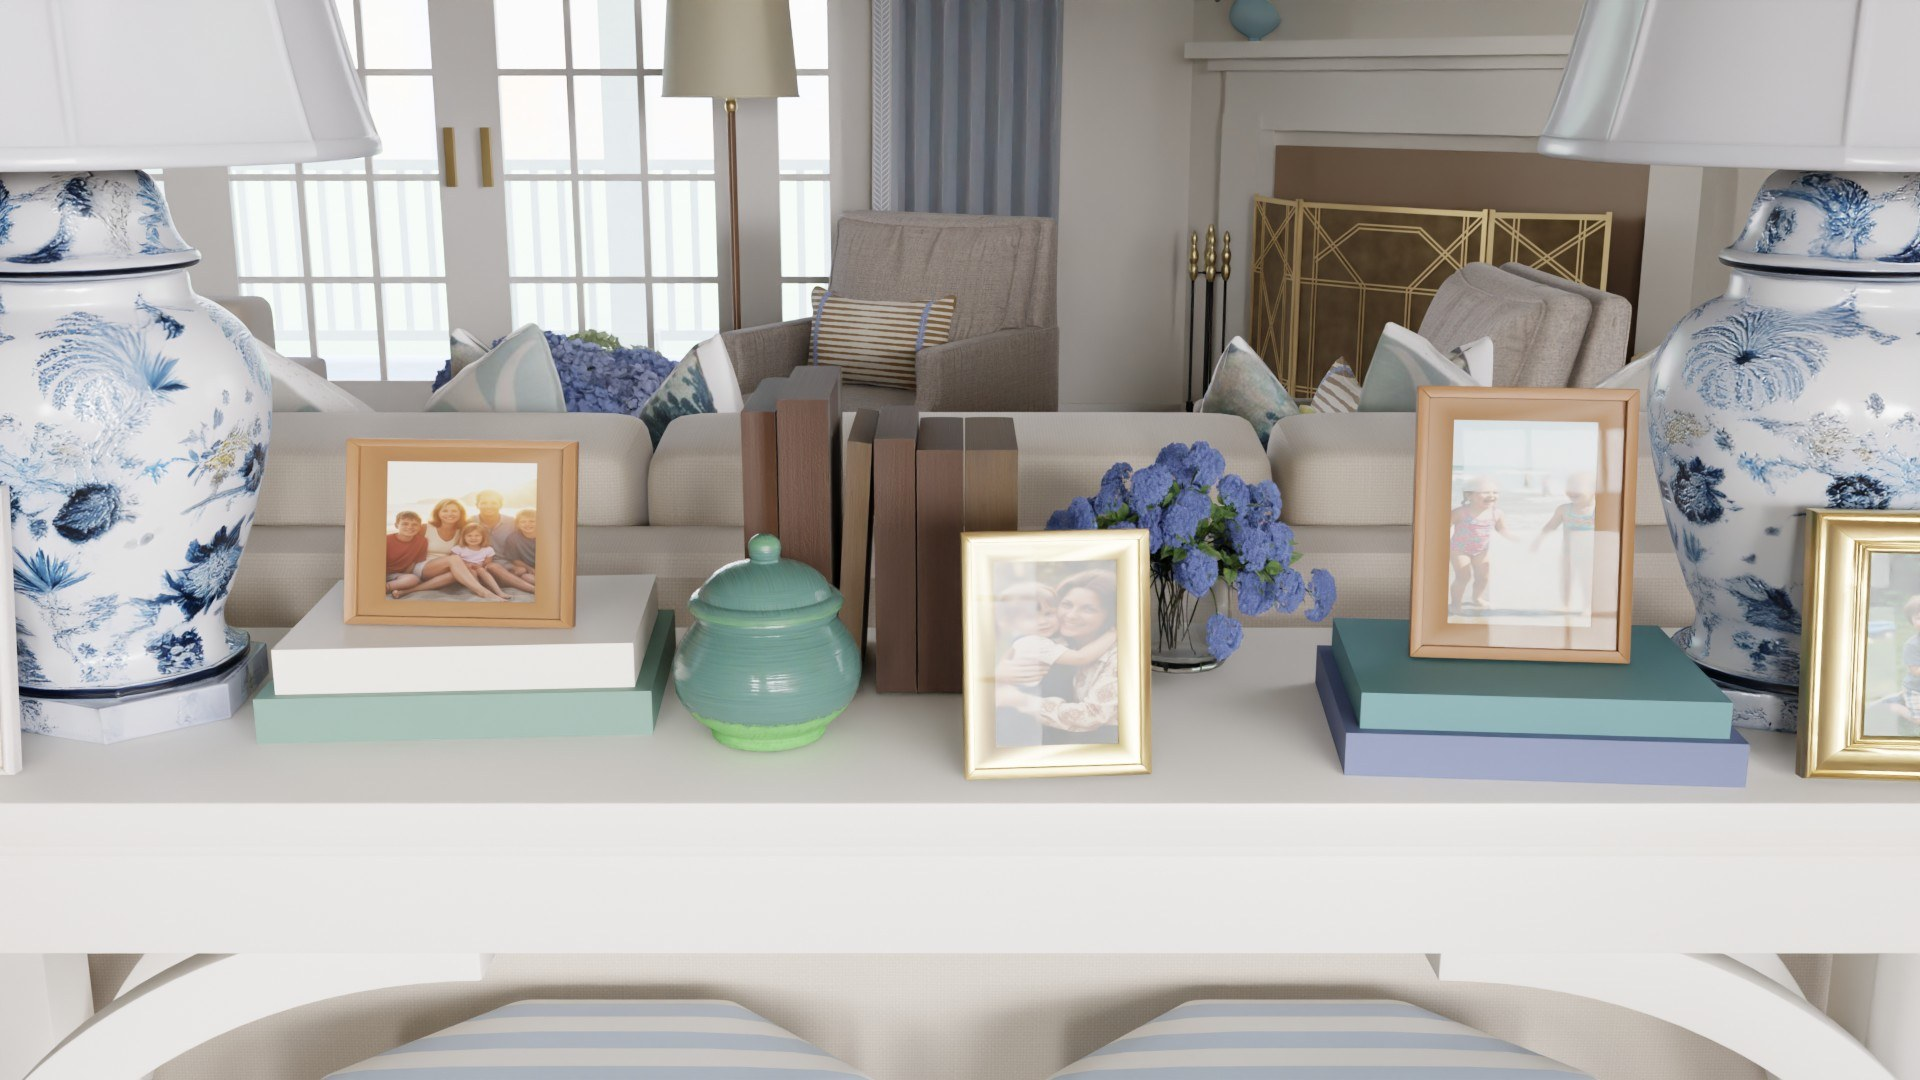
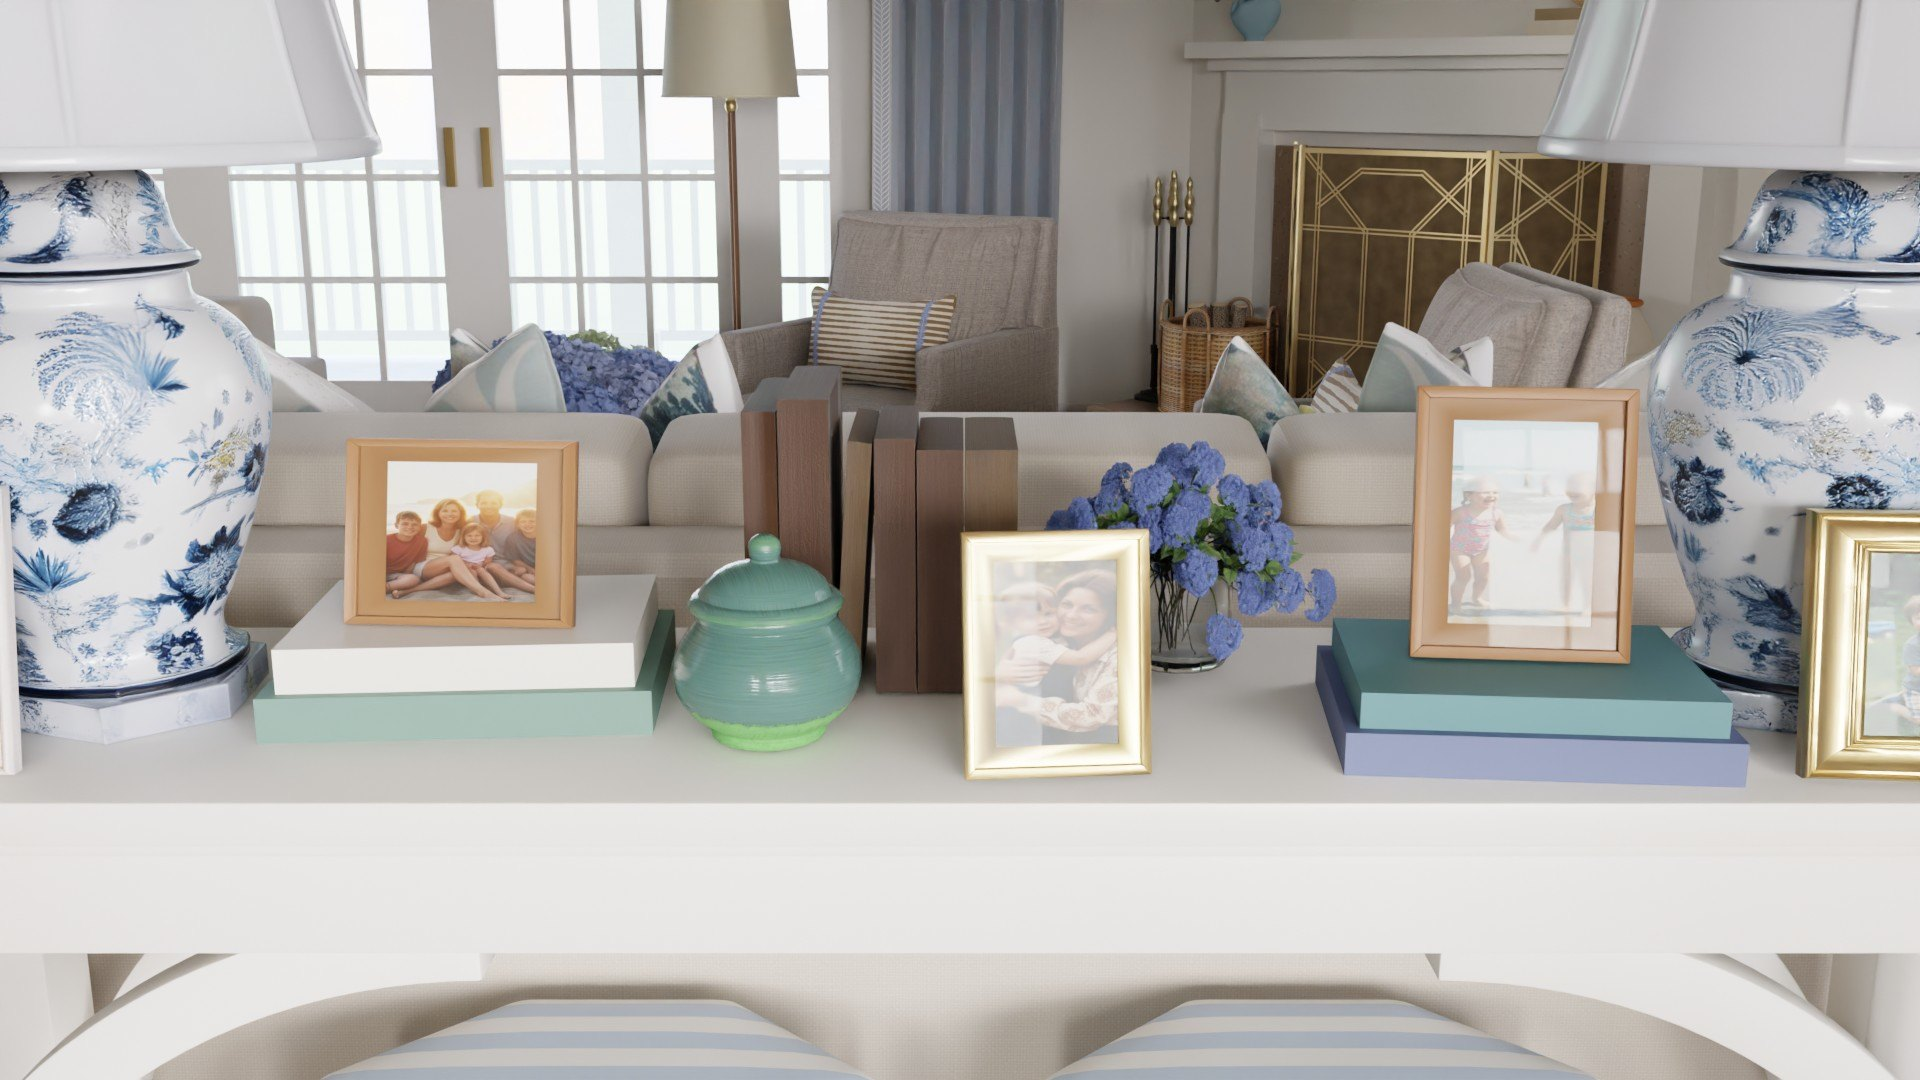
VB living room tour: raised hearth and fireplace styling, new console and bar photos
Both panoramas re-rendered with the 8 inch raised hearth, mantel books and bowl,
hearth jars with bead garland, basket and tools. Gallery adds 11 (white console
with stools) and 08B (bar sink and art); image URLs carry ?v=5 to bypass caches.

Claude-Session: https://claude.ai/code/session_01JTGAP4tyzELrcwziHm6EGG

Changed region(s): [[0.5312, 0.1222, 0.875, 0.3972], [0.7812, 0.0, 0.8438, 0.0306]]

diff --git a/vb-living-room/tour.js b/vb-living-room/tour.js
@@ -1,1 +1,1 @@
-window.TOUR = {"project": "Virginia Beach \u00b7 Living Room", "default_node": "piano", "default_floor": "main", "default_doors": "closed", "floors": {"main": "Hardwood with rug"}, "doors": {"closed": "Closed"}, "client": {"name": "Maureen Stevens Design", "url": "https://www.maureenstevens.com/"}, "times": ["day"], "nodes": [{"id": "piano", "label": "Piano Side", "view": {"yaw": 83.4, "pitch": -18.6, "hfov": 104}, "views": [{"id": "piano", "label": "Piano & art", "short": "Piano", "yaw": -28.9, "pitch": -7.7, "hfov": 102}, {"id": "seating", "label": "Seating area", "short": "Seating", "yaw": 83.4, "pitch": -18.6, "hfov": 104}, {"id": "fireplace", "label": "Fireplace", "short": "Fireplace", "yaw": 121.5, "pitch": -3.3, "hfov": 92}, {"id": "bar", "label": "Bar", "short": "Bar", "yaw": 45.7, "pitch": -0.5, "hfov": 92}], "links": [{"to": "fireplace", "label": "Go to Fireplace Side", "yaw": 90.3, "pitch": -21.6}], "appliances": [], "panos": {"floor-main__doors-closed": {"full": "pano_piano.jpg", "mobile": "pano_piano_m.jpg"}}, "photos": [{"still": "01_West", "yaw": 148.5, "pitch": -29.1, "label": "West View"}, {"still": "02_Fireplace", "yaw": 121.4, "pitch": -8.2, "label": "Fireplace Wall"}, {"still": "03_North", "yaw": 39.4, "pitch": -1.9, "label": "North View"}, {"still": "05_Fireplace_Close", "yaw": 118.8, "pitch": 1.1, "label": "Fireplace Close-up"}, {"still": "06_WhiteConsole", "yaw": -173.7, "pitch": -23.8, "label": "White Console"}, {"still": "07_OsloConsole", "yaw": 58.1, "pitch": -8.8, "label": "Oslo Console"}, {"still": "08_Bar", "yaw": 43.1, "pitch": 0.6, "label": "Bar"}, {"still": "09_BarCart", "yaw": 64.0, "pitch": -10.8, "label": "Bar Cart"}, {"still": "10_Piano", "yaw": -27.3, "pitch": 1.1, "label": "Piano Corner"}]}, {"id": "fireplace", "label": "Fireplace Side", "view": {"yaw": 166.6, "pitch": -7.2, "hfov": 92}, "views": [{"id": "fireplace", "label": "Fireplace", "short": "Fireplace", "yaw": 166.6, "pitch": -7.2, "hfov": 92}, {"id": "bar", "label": "Bar", "short": "Bar", "yaw": 5.4, "pitch": -0.7, "hfov": 92}, {"id": "seating", "label": "Seating & piano", "short": "Seating", "yaw": -79.6, "pitch": -12.8, "hfov": 106}, {"id": "windows", "label": "Garden doors", "short": "Doors", "yaw": 76.1, "pitch": -8.0, "hfov": 100}], "links": [{"to": "piano", "label": "Go to Piano Side", "yaw": -89.7, "pitch": -21.6}], "appliances": [], "panos": {"floor-main__doors-closed": {"full": "pano_fireplace.jpg", "mobile": "pano_fireplace_m.jpg"}}, "photos": [{"still": "01_West", "yaw": -111.7, "pitch": -13.7, "label": "West View"}, {"still": "02_Fireplace", "yaw": 166.4, "pitch": -15.1, "label": "Fireplace Wall"}, {"still": "03_North", "yaw": -24.7, "pitch": -2.2, "label": "North View"}, {"still": "05_Fireplace_Close", "yaw": 165.0, "pitch": 2.3, "label": "Fireplace Close-up"}, {"still": "06_WhiteConsole", "yaw": -107.1, "pitch": -7.5, "label": "White Console"}, {"still": "07_OsloConsole", "yaw": -23.1, "pitch": -15.0, "label": "Oslo Console"}, {"still": "08_Bar", "yaw": 6.2, "pitch": 0.8, "label": "Bar"}, {"still": "09_BarCart", "yaw": 24.3, "pitch": -21.5, "label": "Bar Cart"}, {"still": "10_Piano", "yaw": -64.9, "pitch": 0.5, "label": "Piano Corner"}]}], "stills": [{"id": "day_01_West", "time": "day", "caption": "West View", "src": "still_01_West.jpg", "thumb": "thumb_01_West.jpg", "w": 1920, "h": 1080, "version": "orig", "cam": "01_West"}, {"id": "day_02_Fireplace", "time": "day", "caption": "Fireplace Wall", "src": "still_02_Fireplace.jpg", "thumb": "thumb_02_Fireplace.jpg", "w": 1920, "h": 1080, "version": "orig", "cam": "02_Fireplace"}, {"id": "day_03_North", "time": "day", "caption": "North View", "src": "still_03_North.jpg", "thumb": "thumb_03_North.jpg", "w": 1920, "h": 1080, "version": "orig", "cam": "03_North"}, {"id": "day_05_Fireplace_Close", "time": "day", "caption": "Fireplace Close-up", "src": "still_05_Fireplace_Close.jpg", "thumb": "thumb_05_Fireplace_Close.jpg", "w": 1920, "h": 1080, "version": "orig", "cam": "05_Fireplace_Close"}, {"id": "day_06_WhiteConsole", "time": "day", "caption": "White Console", "src": "still_06_WhiteConsole.jpg", "thumb": "thumb_06_WhiteConsole.jpg", "w": 1920, "h": 1080, "version": "orig", "cam": "06_WhiteConsole"}, {"id": "day_07_OsloConsole", "time": "day", "caption": "Oslo Console", "src": "still_07_OsloConsole.jpg", "thumb": "thumb_07_OsloConsole.jpg", "w": 1920, "h": 1080, "version": "orig", "cam": "07_OsloConsole"}, {"id": "day_08_Bar", "time": "day", "caption": "Bar", "src": "still_08_Bar.jpg", "thumb": "thumb_08_Bar.jpg", "w": 1920, "h": 1080, "version": "orig", "cam": "08_Bar"}, {"id": "day_09_BarCart", "time": "day", "caption": "Bar Cart", "src": "still_09_BarCart.jpg", "thumb": "thumb_09_BarCart.jpg", "w": 1920, "h": 1080, "version": "orig", "cam": "09_BarCart"}, {"id": "day_10_Piano", "time": "day", "caption": "Piano Corner", "src": "still_10_Piano.jpg", "thumb": "thumb_10_Piano.jpg", "w": 1920, "h": 1080, "version": "orig", "cam": "10_Piano"}]};
+window.TOUR = {"project": "Virginia Beach \u00b7 Living Room", "default_node": "piano", "default_floor": "main", "default_doors": "closed", "floors": {"main": "Hardwood with rug"}, "doors": {"closed": "Closed"}, "client": {"name": "Maureen Stevens Design", "url": "https://www.maureenstevens.com/"}, "times": ["day"], "nodes": [{"id": "piano", "label": "Piano Side", "view": {"yaw": 83.4, "pitch": -18.6, "hfov": 104}, "views": [{"id": "piano", "label": "Piano & art", "short": "Piano", "yaw": -28.9, "pitch": -7.7, "hfov": 102}, {"id": "seating", "label": "Seating area", "short": "Seating", "yaw": 83.4, "pitch": -18.6, "hfov": 104}, {"id": "fireplace", "label": "Fireplace", "short": "Fireplace", "yaw": 121.5, "pitch": -3.3, "hfov": 92}, {"id": "bar", "label": "Bar", "short": "Bar", "yaw": 45.7, "pitch": -0.5, "hfov": 92}], "links": [{"to": "fireplace", "label": "Go to Fireplace Side", "yaw": 90.3, "pitch": -21.6}], "appliances": [], "panos": {"floor-main__doors-closed": {"full": "pano_piano.jpg?v=5", "mobile": "pano_piano_m.jpg?v=5"}}, "photos": [{"still": "01_West", "yaw": 148.5, "pitch": -29.1, "label": "West View"}, {"still": "02_Fireplace", "yaw": 121.4, "pitch": -8.2, "label": "Fireplace Wall"}, {"still": "03_North", "yaw": 39.4, "pitch": -1.9, "label": "North View"}, {"still": "05_Fireplace_Close", "yaw": 118.8, "pitch": 1.1, "label": "Fireplace Close-up"}, {"still": "06_WhiteConsole", "yaw": -173.7, "pitch": -23.8, "label": "White Console"}, {"still": "11_ConsoleStools", "yaw": 180.0, "pitch": -43.2, "label": "White Console & Stools"}, {"still": "07_OsloConsole", "yaw": 58.1, "pitch": -8.8, "label": "Oslo Console"}, {"still": "08_Bar", "yaw": 43.1, "pitch": 0.6, "label": "Bar"}, {"still": "08B_BarSink", "yaw": 42.0, "pitch": -4.4, "label": "Bar Sink & Art"}, {"still": "09_BarCart", "yaw": 64.0, "pitch": -10.8, "label": "Bar Cart"}, {"still": "10_Piano", "yaw": -27.3, "pitch": 1.1, "label": "Piano Corner"}]}, {"id": "fireplace", "label": "Fireplace Side", "view": {"yaw": 166.6, "pitch": -7.2, "hfov": 92}, "views": [{"id": "fireplace", "label": "Fireplace", "short": "Fireplace", "yaw": 166.6, "pitch": -7.2, "hfov": 92}, {"id": "bar", "label": "Bar", "short": "Bar", "yaw": 5.4, "pitch": -0.7, "hfov": 92}, {"id": "seating", "label": "Seating & piano", "short": "Seating", "yaw": -79.6, "pitch": -12.8, "hfov": 106}, {"id": "windows", "label": "Garden doors", "short": "Doors", "yaw": 76.1, "pitch": -8.0, "hfov": 100}], "links": [{"to": "piano", "label": "Go to Piano Side", "yaw": -89.7, "pitch": -21.6}], "appliances": [], "panos": {"floor-main__doors-closed": {"full": "pano_fireplace.jpg?v=5", "mobile": "pano_fireplace_m.jpg?v=5"}}, "photos": [{"still": "01_West", "yaw": -111.7, "pitch": -13.7, "label": "West View"}, {"still": "02_Fireplace", "yaw": 166.4, "pitch": -15.1, "label": "Fireplace Wall"}, {"still": "03_North", "yaw": -24.7, "pitch": -2.2, "label": "North View"}, {"still": "05_Fireplace_Close", "yaw": 165.0, "pitch": 2.3, "label": "Fireplace Close-up"}, {"still": "06_WhiteConsole", "yaw": -107.1, "pitch": -7.5, "label": "White Console"}, {"still": "11_ConsoleStools", "yaw": -107.7, "pitch": -16.1, "label": "White Console & Stools"}, {"still": "07_OsloConsole", "yaw": -23.1, "pitch": -15.0, "label": "Oslo Console"}, {"still": "08_Bar", "yaw": 6.2, "pitch": 0.8, "label": "Bar"}, {"still": "08B_BarSink", "yaw": 6.6, "pitch": -5.9, "label": "Bar Sink & Art"}, {"still": "09_BarCart", "yaw": 24.3, "pitch": -21.5, "label": "Bar Cart"}, {"still": "10_Piano", "yaw": -64.9, "pitch": 0.5, "label": "Piano Corner"}]}], "stills": [{"id": "day_01_West", "time": "day", "caption": "West View", "src": "still_01_West.jpg?v=5", "thumb": "thumb_01_West.jpg?v=5", "w": 1920, "h": 1080, "version": "orig", "cam": "01_West"}, {"id": "day_02_Fireplace", "time": "day", "caption": "Fireplace Wall", "src": "still_02_Fireplace.jpg?v=5", "thumb": "thumb_02_Fireplace.jpg?v=5", "w": 1920, "h": 1080, "version": "orig", "cam": "02_Fireplace"}, {"id": "day_03_North", "time": "day", "caption": "North View", "src": "still_03_North.jpg?v=5", "thumb": "thumb_03_North.jpg?v=5", "w": 1920, "h": 1080, "version": "orig", "cam": "03_North"}, {"id": "day_05_Fireplace_Close", "time": "day", "caption": "Fireplace Close-up", "src": "still_05_Fireplace_Close.jpg?v=5", "thumb": "thumb_05_Fireplace_Close.jpg?v=5", "w": 1920, "h": 1080, "version": "orig", "cam": "05_Fireplace_Close"}, {"id": "day_06_WhiteConsole", "time": "day", "caption": "White Console", "src": "still_06_WhiteConsole.jpg?v=5", "thumb": "thumb_06_WhiteConsole.jpg?v=5", "w": 1920, "h": 1080, "version": "orig", "cam": "06_WhiteConsole"}, {"id": "day_11_ConsoleStools", "time": "day", "caption": "White Console & Stools", "src": "still_11_ConsoleStools.jpg?v=5", "thumb": "thumb_11_ConsoleStools.jpg?v=5", "w": 1920, "h": 1080, "version": "orig", "cam": "11_ConsoleStools"}, {"id": "day_07_OsloConsole", "time": "day", "caption": "Oslo Console", "src": "still_07_OsloConsole.jpg?v=5", "thumb": "thumb_07_OsloConsole.jpg?v=5", "w": 1920, "h": 1080, "version": "orig", "cam": "07_OsloConsole"}, {"id": "day_08_Bar", "time": "day", "caption": "Bar", "src": "still_08_Bar.jpg?v=5", "thumb": "thumb_08_Bar.jpg?v=5", "w": 1920, "h": 1080, "version": "orig", "cam": "08_Bar"}, {"id": "day_08B_BarSink", "time": "day", "caption": "Bar Sink & Art", "src": "still_08B_BarSink.jpg?v=5", "thumb": "thumb_08B_BarSink.jpg?v=5", "w": 1920, "h": 1080, "version": "orig", "cam": "08B_BarSink"}, {"id": "day_09_BarCart", "time": "day", "caption": "Bar Cart", "src": "still_09_BarCart.jpg?v=5", "thumb": "thumb_09_BarCart.jpg?v=5", "w": 1920, "h": 1080, "version": "orig", "cam": "09_BarCart"}, {"id": "day_10_Piano", "time": "day", "caption": "Piano Corner", "src": "still_10_Piano.jpg?v=5", "thumb": "thumb_10_Piano.jpg?v=5", "w": 1920, "h": 1080, "version": "orig", "cam": "10_Piano"}]};

diff --git a/vb-living-room/index.html b/vb-living-room/index.html
@@ -247,7 +247,7 @@
 </section>
 
 <script src="https://cdnjs.cloudflare.com/ajax/libs/pannellum/2.5.6/pannellum.js"></script>
-<script src="tour.js?v=1"></script>
+<script src="tour.js?v=2"></script>
 <script>
 (async function(){
   const $ = id => document.getElementById(id);

diff --git a/vb-living-room/README.md b/vb-living-room/README.md
@@ -18,3 +18,7 @@ Live: https://ms3dstudio.github.io/3d-previews/vb-living-room/
 Both panoramas face north at the centre (yaw 0 = north wall, 90 = east windows, 180 = south).
 Adjust (top right) changes brightness and contrast of the 360 and the photos. A link can carry a setting, for example `?b=115&c=105`.
 To replace a panorama with a colour-graded version, overwrite both of its files with the same names.
+
+## Updates
+
+- 11/09: raised hearth and new fireplace styling (both 360s re-rendered), new photos 11 (white console with stools) and 08B (bar sink and art).
